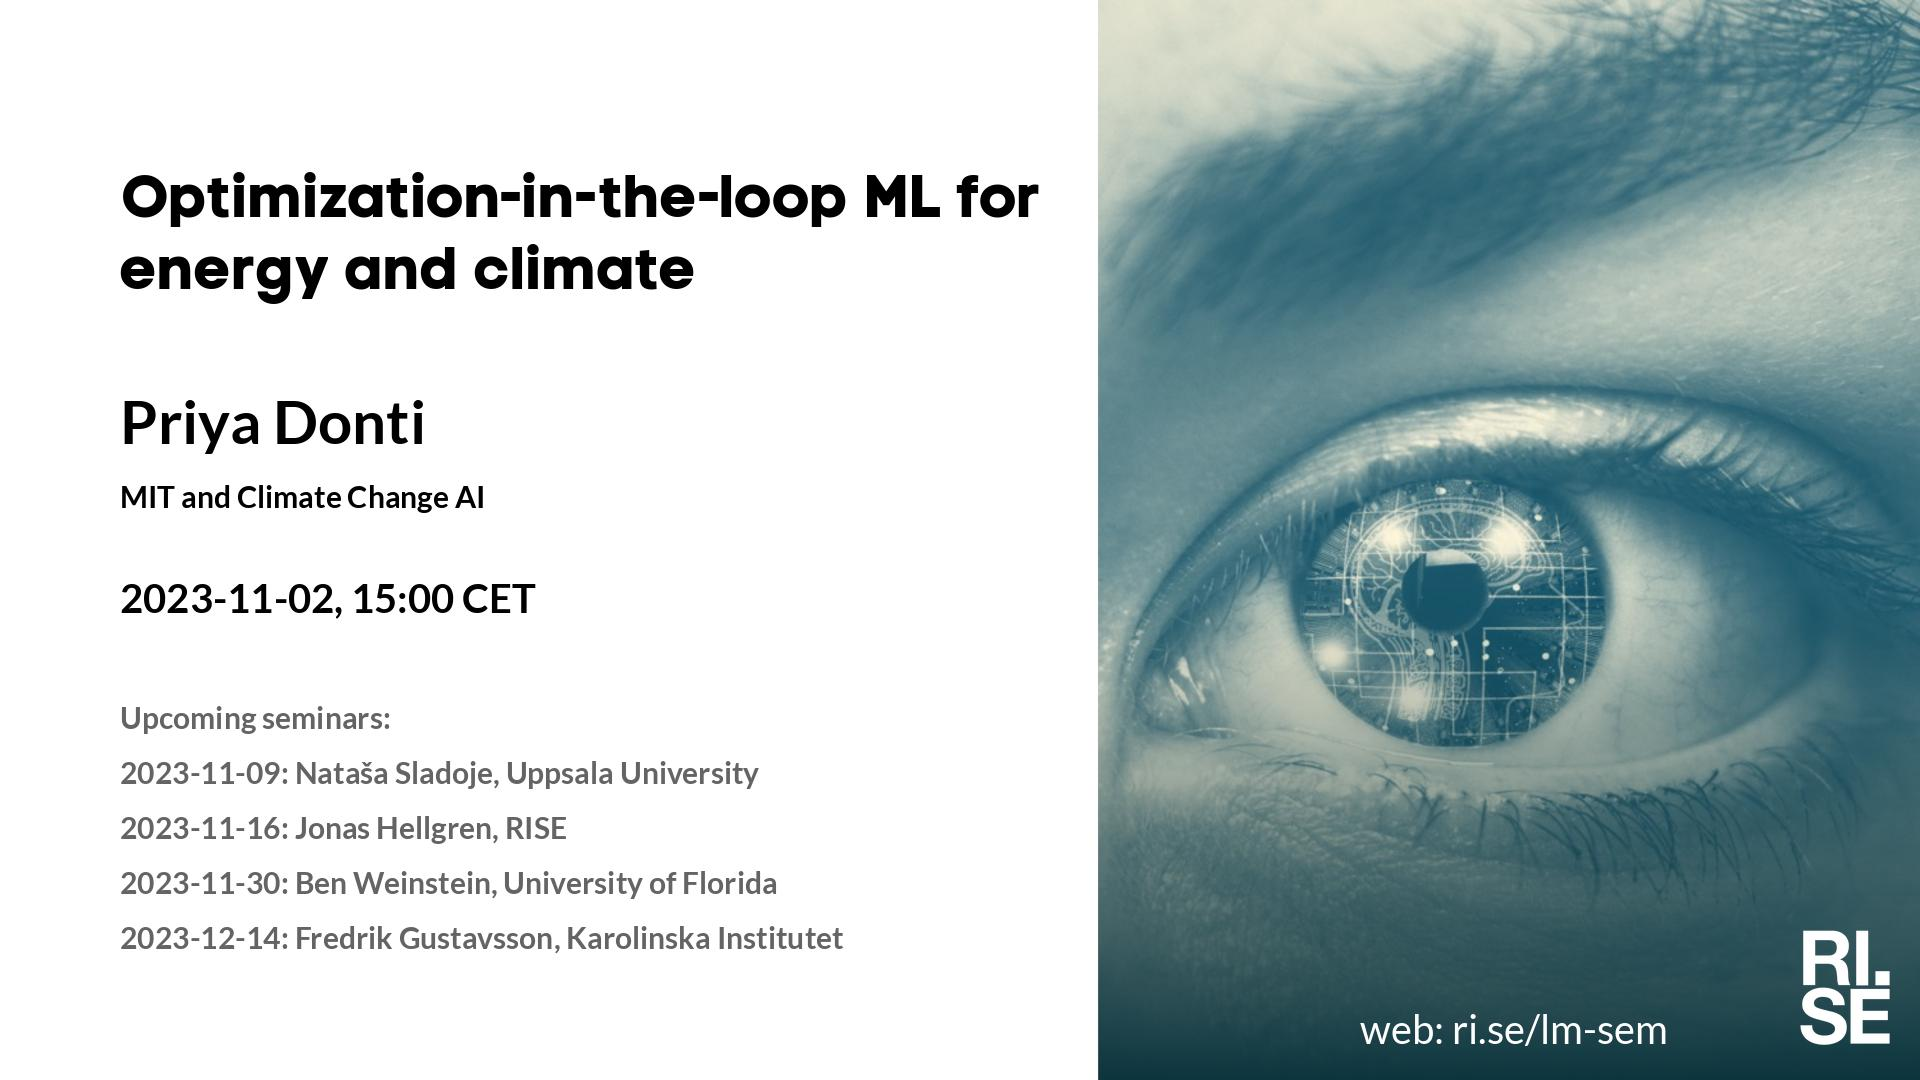
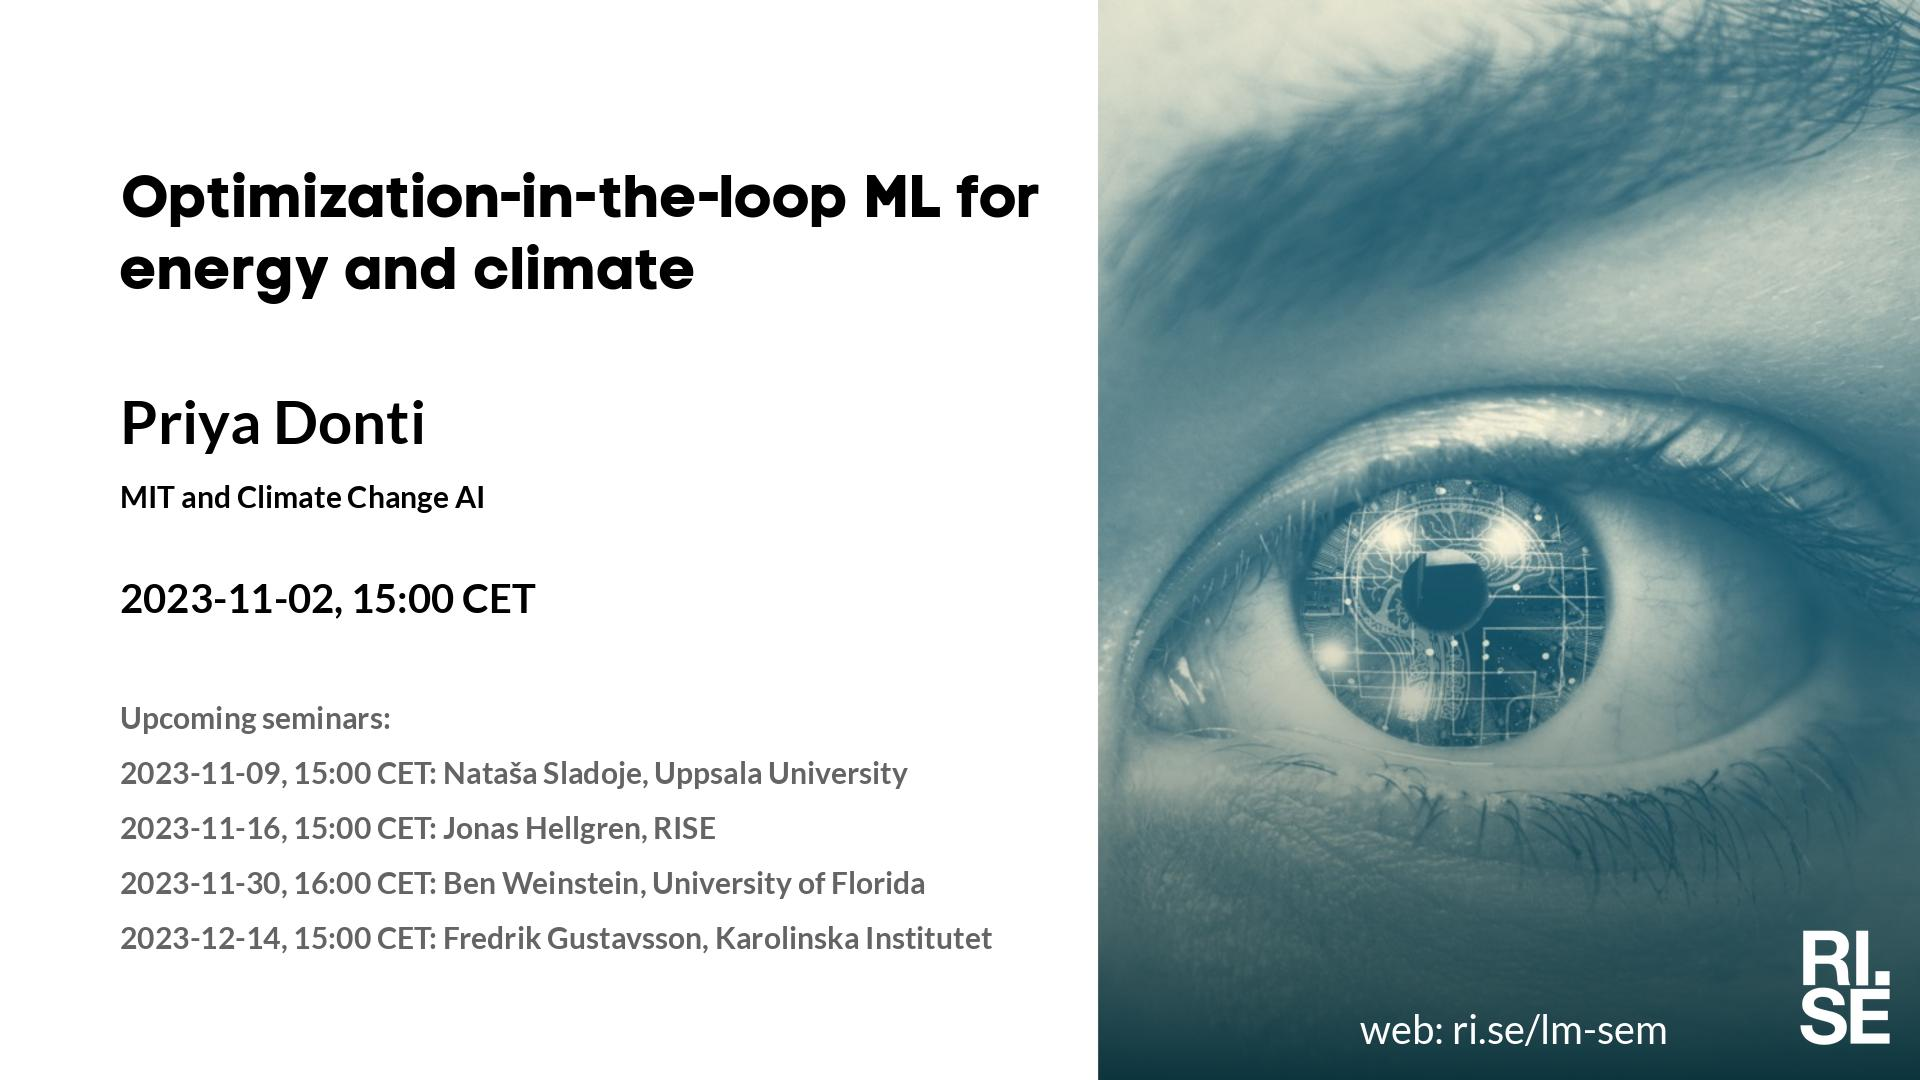
Updated plan on web site.

Changed region(s): [[0.1562, 0.7028, 0.5, 0.825], [0.1562, 0.8556, 0.5312, 0.8861]]

diff --git a/lm/2023-11-02.md b/lm/2023-11-02.md
@@ -20,10 +20,10 @@ Welcome to this week's Learning Machines seminar.
 
 **Upcoming seminars:**
 
-* 2023-11-09: Nataša Sladoje, Uppsala University
-* 2023-11-16: Jonas Hellgren, RISE
-* 2023-11-30: Ben Weinstein, University of Florida
-* 2023-12-14: Fredrik Gustavsson, Karolinska Institutet
+* 2023-11-09, 15:00 CET: Nataša Sladoje, Uppsala University
+* 2023-11-16, 15:00 CET: Jonas Hellgren, RISE
+* 2023-11-30, 16:00 CET: Ben Weinstein, University of Florida
+* 2023-12-14, 15:00 CET: Fredrik Gustavsson, Karolinska Institutet
 
 More information and coming seminars: [https://ri.se/lm-sem](https://ri.se/lm-sem)
 

diff --git a/lm/2023-10-19.md b/lm/2023-10-19.md
@@ -20,10 +20,10 @@ Welcome to this week's Learning Machines seminar.
 
 **Upcoming seminars:**
 
-* 2023-11-02: Priya Donti, MIT and Climate Change AI
-* 2023-11-09: Nataša Sladoje, Uppsala University
-* 2023-11-16: Jonas Hellgren, RISE
-* 2023-11-30: Ben Weinstein, University of Florida
+* 2023-11-02, 15:00 CET: Priya Donti, MIT and Climate Change AI
+* 2023-11-09, 15:00 CET: Nataša Sladoje, Uppsala University
+* 2023-11-16, 15:00 CET: Jonas Hellgren, RISE
+* 2023-11-30, 16:00 CET: Ben Weinstein, University of Florida
 
 More information and coming seminars: [https://ri.se/lm-sem](https://ri.se/lm-sem)
 
